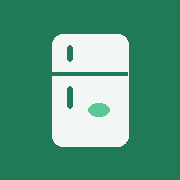
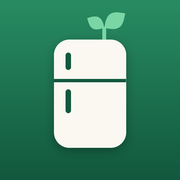
앱 아이콘 새 디자인(새싹 냉장고)으로 교체
Claude-Session: https://claude.ai/code/session_01Ps2BBAzsXAVGJSF1ZgM3ts

Changed region(s): [[0.0, 0.0556, 1.0, 1.0], [0.4722, 0.5556, 0.6111, 0.6667]]

diff --git a/sw.js b/sw.js
@@ -1,6 +1,6 @@
 // 냉장쿡 서비스 워커: 앱 파일을 저장해 두고 오프라인에서도 열리게 함.
 // 앱을 고칠 때마다 아래 버전 숫자를 올리면 휴대폰에 새 버전이 반영됨.
-const VERSION = "naengjangcook-v0.4";
+const VERSION = "naengjangcook-v0.4.1";
 const FILES = ["./", "index.html", "manifest.webmanifest", "icon-192.png", "icon-512.png", "apple-touch-icon.png"];
 
 self.addEventListener("install", e => {
